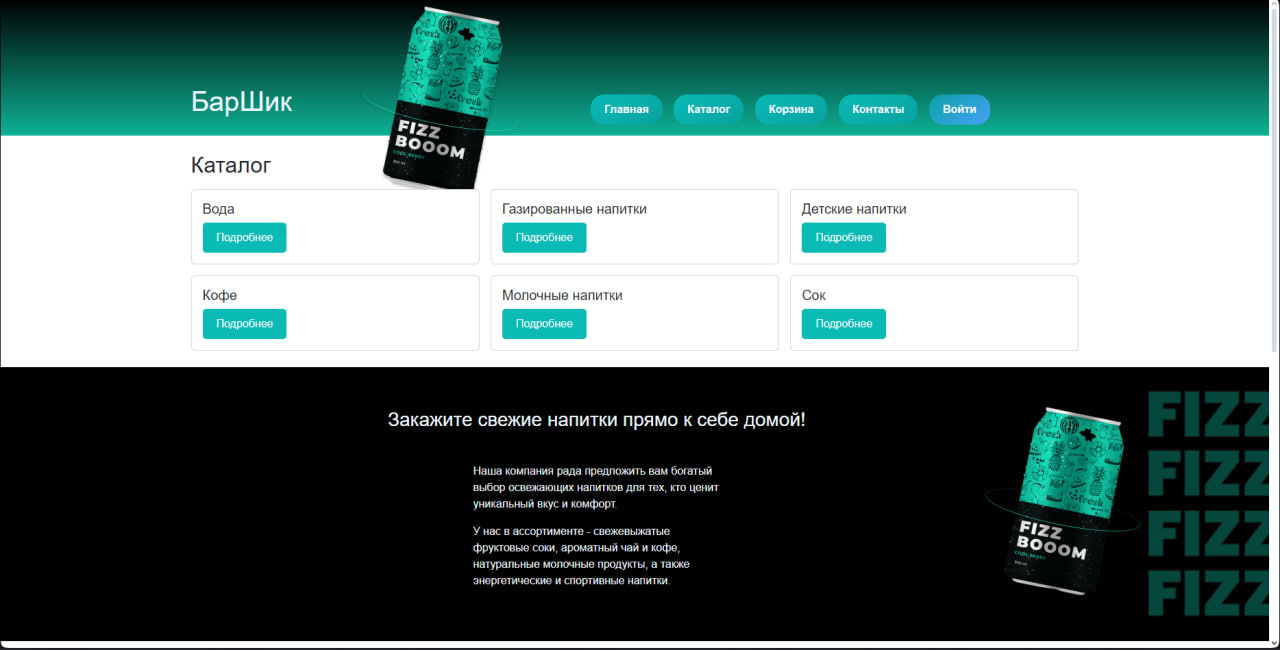
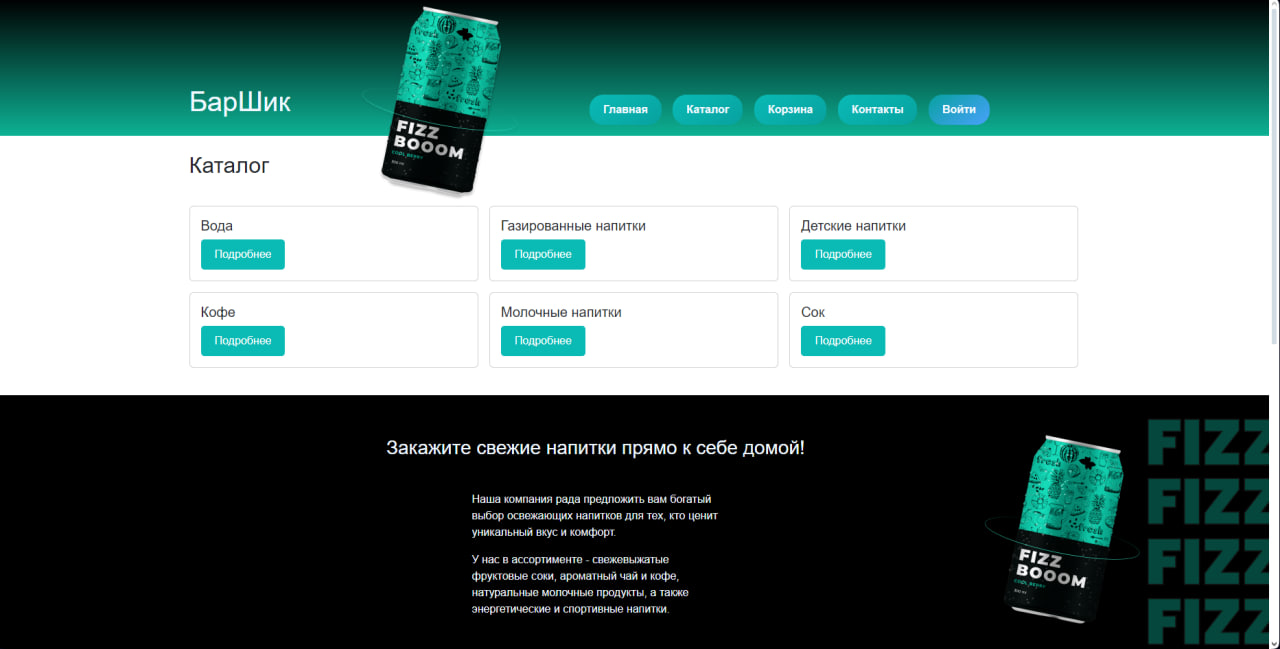
design fix

diff --git a/index.php b/index.php
@@ -49,6 +49,10 @@ $mysqli->close();
             background-color: #08a2a0;
             color: #ffffff;
         }
+        .mb-4 {
+            margin-bottom: 2.5rem !important;
+            margin-top: 1.5rem !important;
+            }
     </style>
 </head>
 <body>
